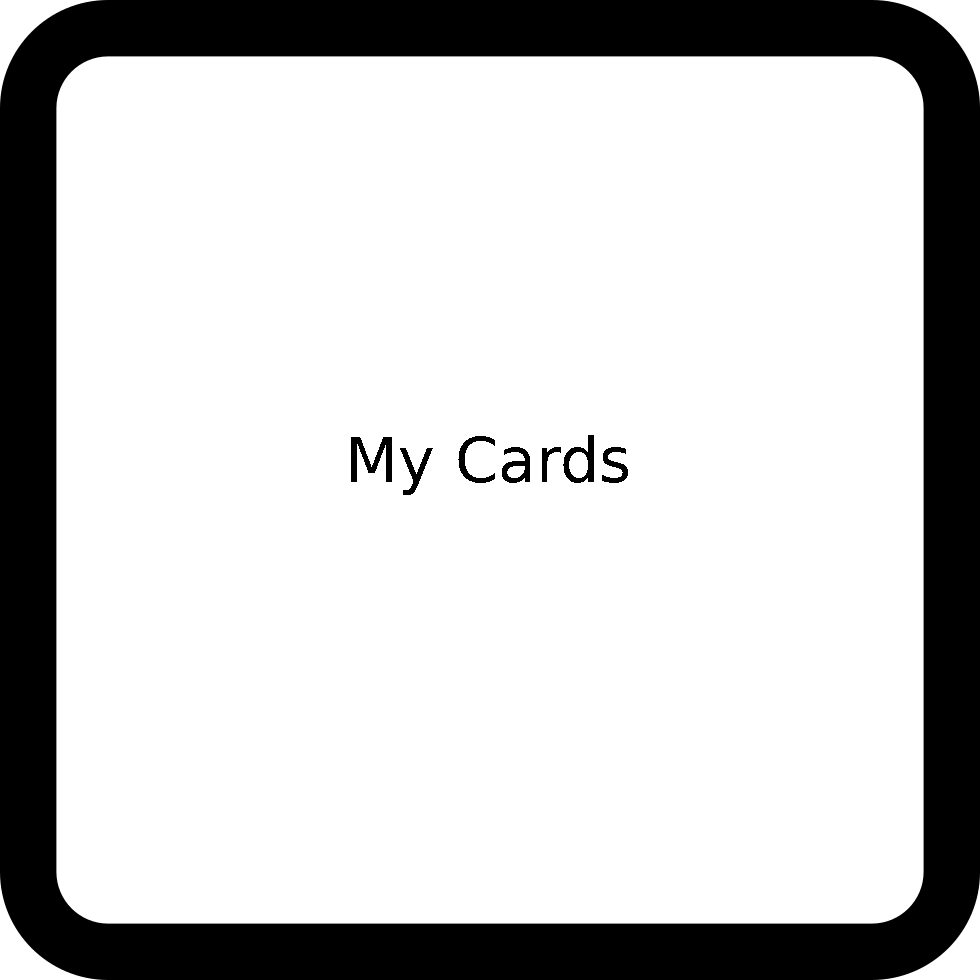
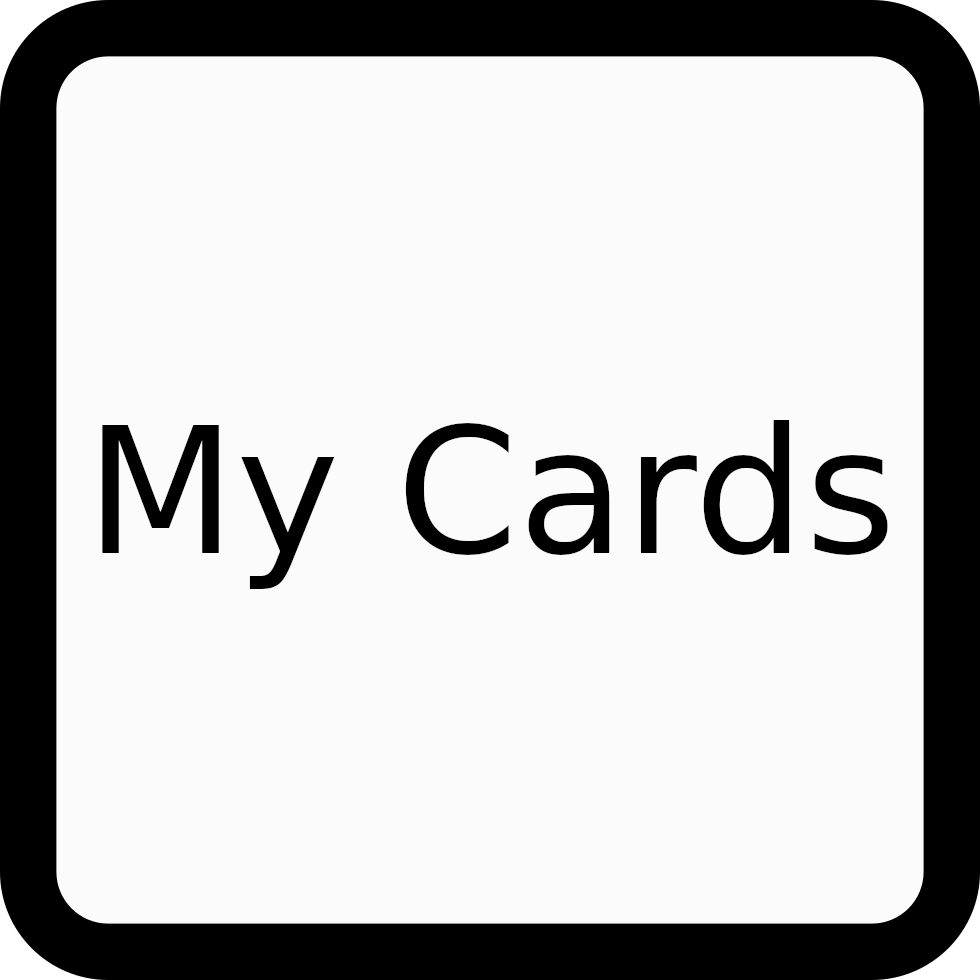
Placed buttons around grid - output to console when clicked

Changed region(s): [[0.0918, 0.4286, 0.9184, 0.6122]]

diff --git a/GameState.cpp b/GameState.cpp
@@ -10,7 +10,14 @@ namespace gui {
 	void GameState::init() {
 		gameState = STATE_PLAYING;
 		
-		this->data->assets.loadTexture("Background", GAME_BACKGROUND_FILEPATH);
+		//this->data->assets.loadTexture("Background", GAME_BACKGROUND_FILEPATH);
+		this->data->assets.loadTexture("Grid Sprite", GRID_SPRITE_FILEPATH);
+		this->data->assets.loadTexture("White Piece", W_PIECE_FILEPATH);
+		this->data->assets.loadTexture("Blue Piece", B_PIECE_FILEPATH);
+		this->data->assets.loadTexture("Red Piece", R_PIECE_FILEPATH);
+		this->data->assets.loadTexture("Brown Piece", Br_PIECE_FILEPATH);
+		this->data->assets.loadTexture("Green Piece", G_PIECE_FILEPATH);
+		this->data->assets.loadTexture("Purple Piece", P_PIECE_FILEPATH);
 		this->data->assets.loadTexture("Roll Button", GAME_ROLL_BUTTON_FILEPATH);
 		this->data->assets.loadTexture("Suggest Button", GAME_SUGGEST_BUTTON_FILEPATH);
 		this->data->assets.loadTexture("Accuse Button", GAME_ACCUSE_BUTTON_FILEPATH);
@@ -18,24 +25,20 @@ namespace gui {
 		this->data->assets.loadTexture("My Cards Button", GAME_MY_CARDS_BUTTON_FILEPATH);
 		this->data->assets.loadTexture("Notebook Button", GAME_NOTEBOOK_BUTTON_FILEPATH);
 
-		this->background.setTexture(this->data->assets.getTexture("Background"));
-		this->rollButton.setTexture(this->data->assets.getTexture("Roll Button"));
-		this->suggestButton.setTexture(this->data->assets.getTexture("Suggest Button"));
-		this->accuseButton.setTexture(this->data->assets.getTexture("Accuse Button"));
-		this->endTurnButton.setTexture(this->data->assets.getTexture("End Turn Button"));
-		this->myCardsButton.setTexture(this->data->assets.getTexture("My Cards Button"));
-		this->notebookButton.setTexture(this->data->assets.getTexture("Notebook Button"));
+		//this->background.setTexture(this->data->assets.getTexture("Background"));
+		this->gridSprite.setTexture(this->data->assets.getTexture("Grid Sprite"));
 
-		this->background.setScale(.8f, .8f);
-		this->background.setPosition((SCREEN_WIDTH / 2) - 
+		//this->background.setScale(.8f, .8f);
+		/*this->background.setPosition((SCREEN_WIDTH / 2) - 
 				(this->background.getGlobalBounds().width / 2), 
-				(SCREEN_HEIGHT / 2) - (this->background.getGlobalBounds().height / 2));
-		this->rollButton.setScale(.20f, .20f);
-		this->suggestButton.setScale(.20f, .20f);
-		this->accuseButton.setScale(.20f, .20f);
-		this->endTurnButton.setScale(.20f, .20f);
-		this->myCardsButton.setScale(.20f, .20f);
-		this->notebookButton.setScale(.20f, .20f);
+				(SCREEN_HEIGHT / 2) - (this->background.getGlobalBounds().height / 2));*/
+		this->gridSprite.setScale(5.0f, 5.0f);
+		this->gridSprite.setPosition((SCREEN_WIDTH / 2) -
+				(this->gridSprite.getGlobalBounds().width / 2),
+				(SCREEN_HEIGHT / 2) - (this->gridSprite.getGlobalBounds().height / 2));
+
+		initGridPieces();
+		initButtons();
 	}
 
 	void GameState::handleInput() {
@@ -49,6 +52,30 @@ namespace gui {
 					this->data->machine.addState(stateRef(new PauseState(data)), true);
 				}
 			}
+			if (this->data->input.isSpriteClicked(this->rollButton, sf::Mouse::Left,
+						this->data->window)) {
+				cout << "The roll button has been clicked\n";
+			}
+			if (this->data->input.isSpriteClicked(this->suggestButton, sf::Mouse::Left,
+						this->data->window)) {
+				cout << "The suggest button has been clicked\n";
+			}
+			if (this->data->input.isSpriteClicked(this->accuseButton, sf::Mouse::Left,
+						this->data->window)) {
+				cout << "The accuse button has been clicked\n";
+			}
+			if (this->data->input.isSpriteClicked(this->endTurnButton, sf::Mouse::Left,
+						this->data->window)) {
+				cout << "The end turn button has been clicked\n";
+			}
+			if (this->data->input.isSpriteClicked(this->myCardsButton, sf::Mouse::Left,
+						this->data->window)) {
+				cout << "The my cards button has been clicked\n";
+			}
+			if (this->data->input.isSpriteClicked(this->notebookButton, sf::Mouse::Left,
+						this->data->window)) {
+				cout << "The notebook button has been clicked\n";
+			}
 		}
 	}
 
@@ -59,7 +86,10 @@ namespace gui {
 	void GameState::draw(float dt) {
 		this->data->window.clear();
 
-		this->data->window.draw(this->background);
+		//this->data->window.draw(this->background);
+		this->data->window.draw(this->gridSprite);
+		this->data->window.draw(this->gridPieces[11][7]);
+		this->data->window.draw(this->gridPieces[11][4]);
 		this->data->window.draw(this->rollButton);
 		this->data->window.draw(this->suggestButton);
 		this->data->window.draw(this->accuseButton);
@@ -69,4 +99,63 @@ namespace gui {
 
 		this->data->window.display();
 	}
+
+	void GameState::initGridPieces() {
+		sf::Vector2u tempSpriteSize = this->data->assets.getTexture("White Piece").getSize();
+		gridPieces[11][7].setTexture(this->data->assets.getTexture("White Piece"));
+		gridPieces[11][7].setPosition(gridSprite.getPosition().x + (
+					tempSpriteSize.x * 10) - 32, gridSprite.getPosition().y + (
+						tempSpriteSize.y * 7) + 270);
+
+		gridPieces[11][4].setTexture(this->data->assets.getTexture("Green Piece"));
+		gridPieces[11][4].setPosition(gridSprite.getPosition().x + (
+					tempSpriteSize.x * 7) - 65, gridSprite.getPosition().y + (
+						tempSpriteSize.y * 7) + 270);
+
+		//position remaining game pieces
+	}
+
+	void GameState::initButtons() {
+		sf::Vector2u tempButtonSize = this->data->assets.getTexture("Roll Button").getSize();
+		this->rollButton.setTexture(this->data->assets.getTexture("Roll Button"));
+		this->rollButton.setScale(.08f, .08f);
+		this->rollButton.move(sf::Vector2f(gridSprite.getPosition().x, 
+					(SCREEN_HEIGHT - rollButton.getGlobalBounds().height)));
+
+		tempButtonSize = this->data->assets.getTexture("Suggest Button").getSize();
+		this->suggestButton.setTexture(this->data->assets.getTexture("Suggest Button"));
+		this->suggestButton.setScale(.08f, .08f);
+		this->suggestButton.move(sf::Vector2f((gridSprite.getPosition().x + (
+							suggestButton.getGlobalBounds().width) * 2), 
+					(SCREEN_HEIGHT - suggestButton.getGlobalBounds().height)));
+
+		tempButtonSize = this->data->assets.getTexture("Accuse Button").getSize();
+		this->accuseButton.setTexture(this->data->assets.getTexture("Accuse Button"));
+		this->accuseButton.setScale(.08f, .08f);
+		this->accuseButton.move(sf::Vector2f((gridSprite.getPosition().x + (
+							accuseButton.getGlobalBounds().width) * 3), 
+					(SCREEN_HEIGHT - accuseButton.getGlobalBounds().height)));
+
+		tempButtonSize = this->data->assets.getTexture("End Turn Button").getSize();
+		this->endTurnButton.setTexture(this->data->assets.getTexture("End Turn Button"));
+		this->endTurnButton.setScale(.08f, .08f);
+		this->endTurnButton.move(sf::Vector2f((gridSprite.getPosition().x + (
+							endTurnButton.getGlobalBounds().width) * 4), 
+					(SCREEN_HEIGHT - endTurnButton.getGlobalBounds().height)));
+
+		tempButtonSize = this->data->assets.getTexture("My Cards Button").getSize();
+		this->myCardsButton.setTexture(this->data->assets.getTexture("My Cards Button"));
+		this->myCardsButton.setScale(.08f, .08f);
+		this->myCardsButton.move(sf::Vector2f((gridSprite.getPosition().x + (
+							myCardsButton.getGlobalBounds().width) * 5), 
+					(SCREEN_HEIGHT - myCardsButton.getGlobalBounds().height)));
+
+		tempButtonSize = this->data->assets.getTexture("Notebook Button").getSize();
+		this->notebookButton.setTexture(this->data->assets.getTexture("Notebook Button"));
+		this->notebookButton.setScale(.08f, .08f);
+		this->notebookButton.move(sf::Vector2f((gridSprite.getPosition().x + (
+							notebookButton.getGlobalBounds().width) * 6), 
+					(SCREEN_HEIGHT - notebookButton.getGlobalBounds().height)));
+	}
+
 }

diff --git a/GameState.hpp b/GameState.hpp
@@ -14,6 +14,8 @@ namespace gui {
 			void draw(float dt);
 
 		private:
+			void initGridPieces();
+			void initButtons();
 			GameDataRef data;
 			sf::Sprite background;
 			sf::Sprite rollButton;
@@ -22,6 +24,10 @@ namespace gui {
 			sf::Sprite endTurnButton;
 			sf::Sprite myCardsButton;
 			sf::Sprite notebookButton;
+			sf::Sprite gridSprite;
+
+			sf::Sprite gridPieces[12][12];
+			int gridArray[12][12];
 
 			int turn;
 			int gameState;

diff --git a/DEFINITIONS.hpp b/DEFINITIONS.hpp
@@ -21,6 +21,7 @@
 #define GAME_MY_CARDS_BUTTON_FILEPATH "./Assets/graphics/MyCardsButton.png"
 #define GAME_NOTEBOOK_BUTTON_FILEPATH "./Assets/graphics/NotebookButton.png"
 
+#define GRID_SPRITE_FILEPATH "./Assets/graphics/grid.png"
 #define W_PIECE_FILEPATH "./Assets/graphics/wPiece.png"
 #define B_PIECE_FILEPATH "./Assets/graphics/bPiece.png"
 #define R_PIECE_FILEPATH "./Assets/graphics/rPiece.png"
